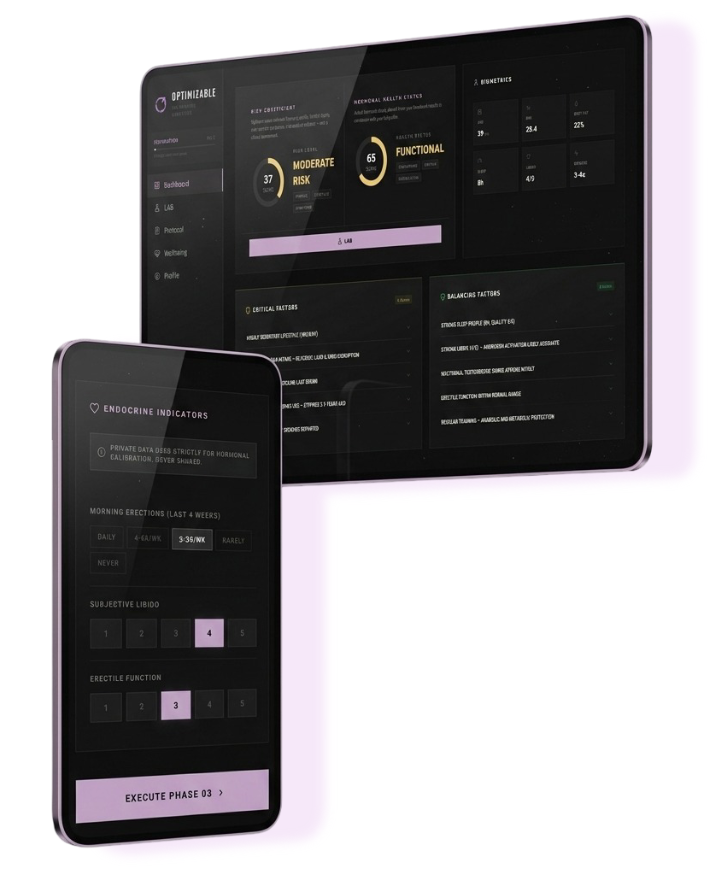
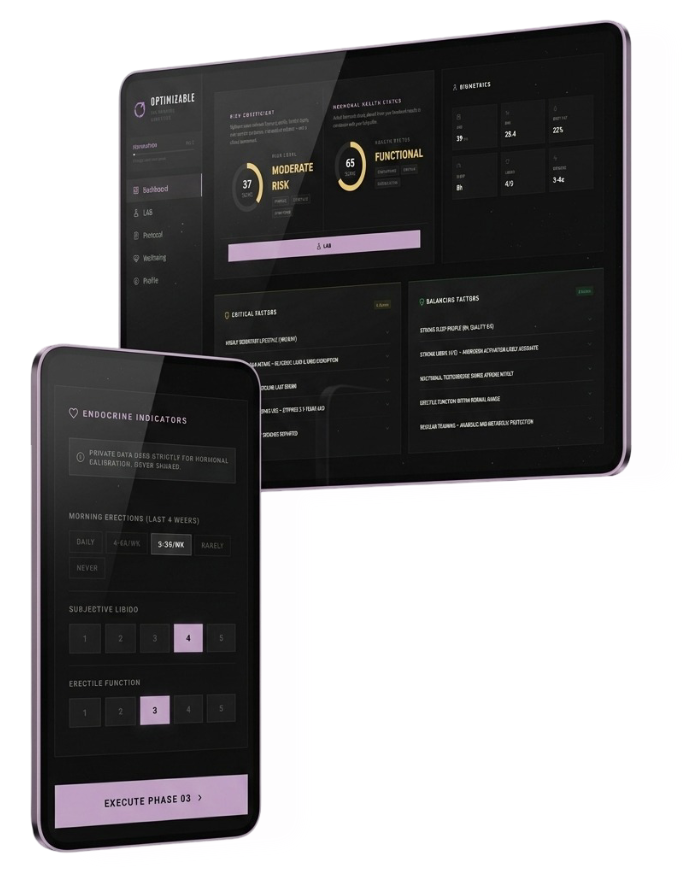
Hero: refresh mockup, enlarge 340→390px, shift up 32px

diff --git a/index.html b/index.html
@@ -192,10 +192,11 @@
     }
     .mockup-img {
       display: block;
-      width: 340px;
+      width: 390px;
       max-width: 100%;
       border-radius: 8px;
       position: relative;
+      transform: translateY(-32px);
     }
 
     /* ─── HERO BODY ─── */
@@ -474,7 +475,7 @@
       .reframe-layout .section-title { margin-bottom: var(--sp-4); }
       .hero-inner { grid-template-columns: 1fr; gap: 3rem; }
       .hero-visual { order: -1; }
-      .mockup-img { width: 280px; }
+      .mockup-img { width: 300px; }
       .steps-row { grid-template-columns: 1fr; }
       .track-line { display: none; }
       .pricing-cards { grid-template-columns: 1fr; max-width: 100%; }
